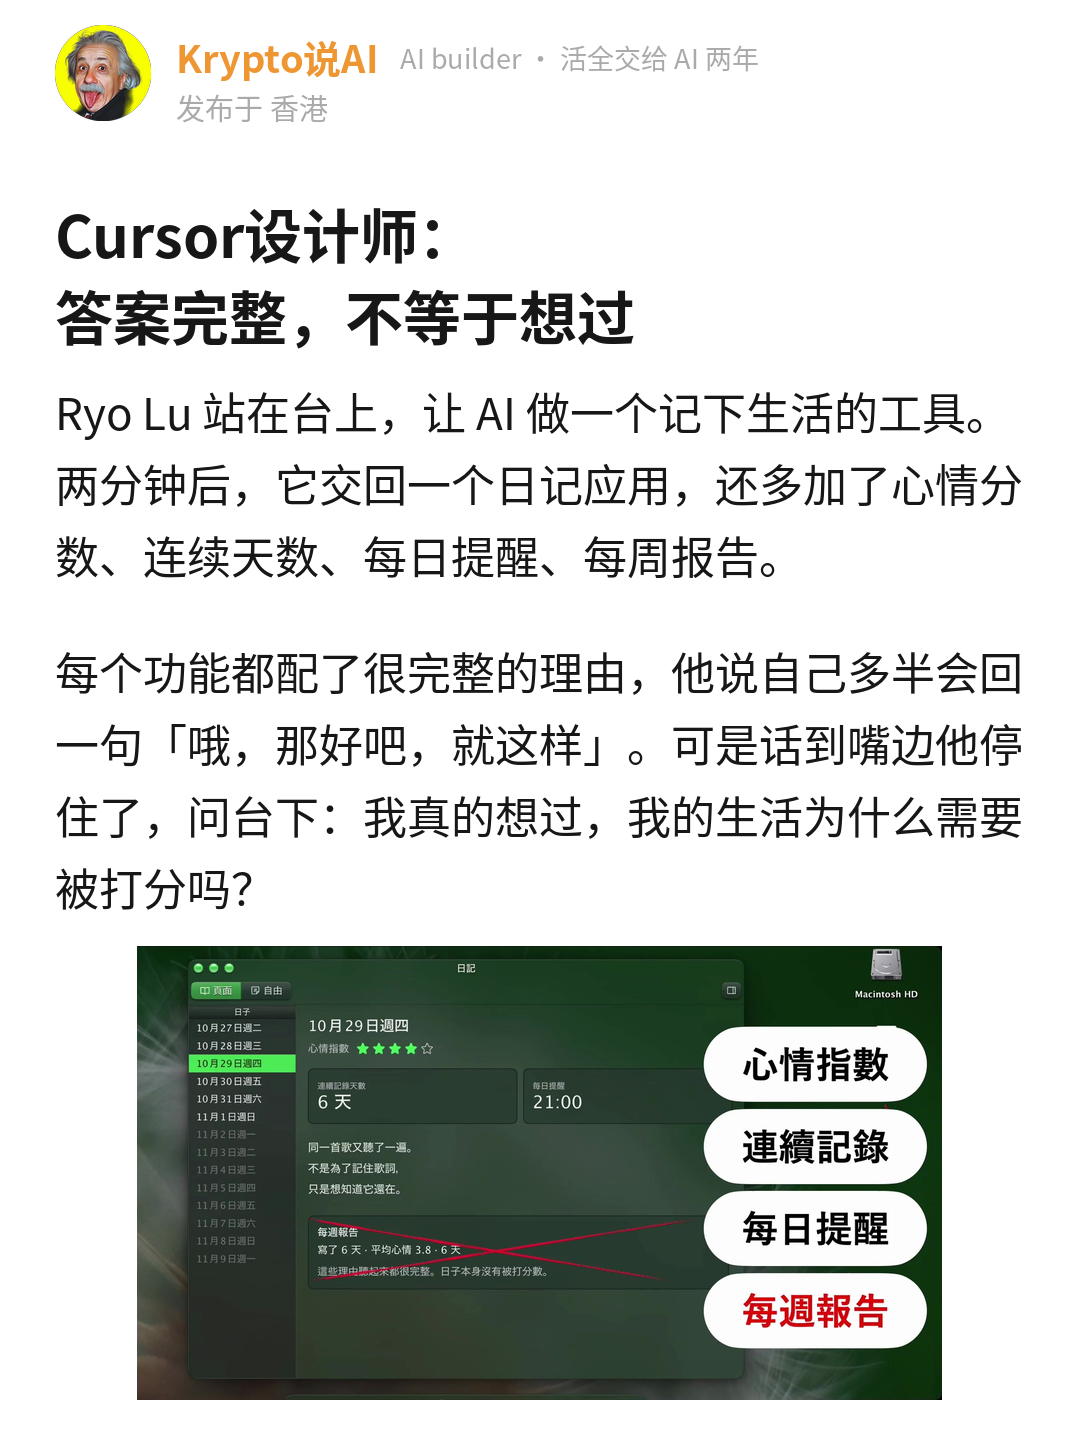
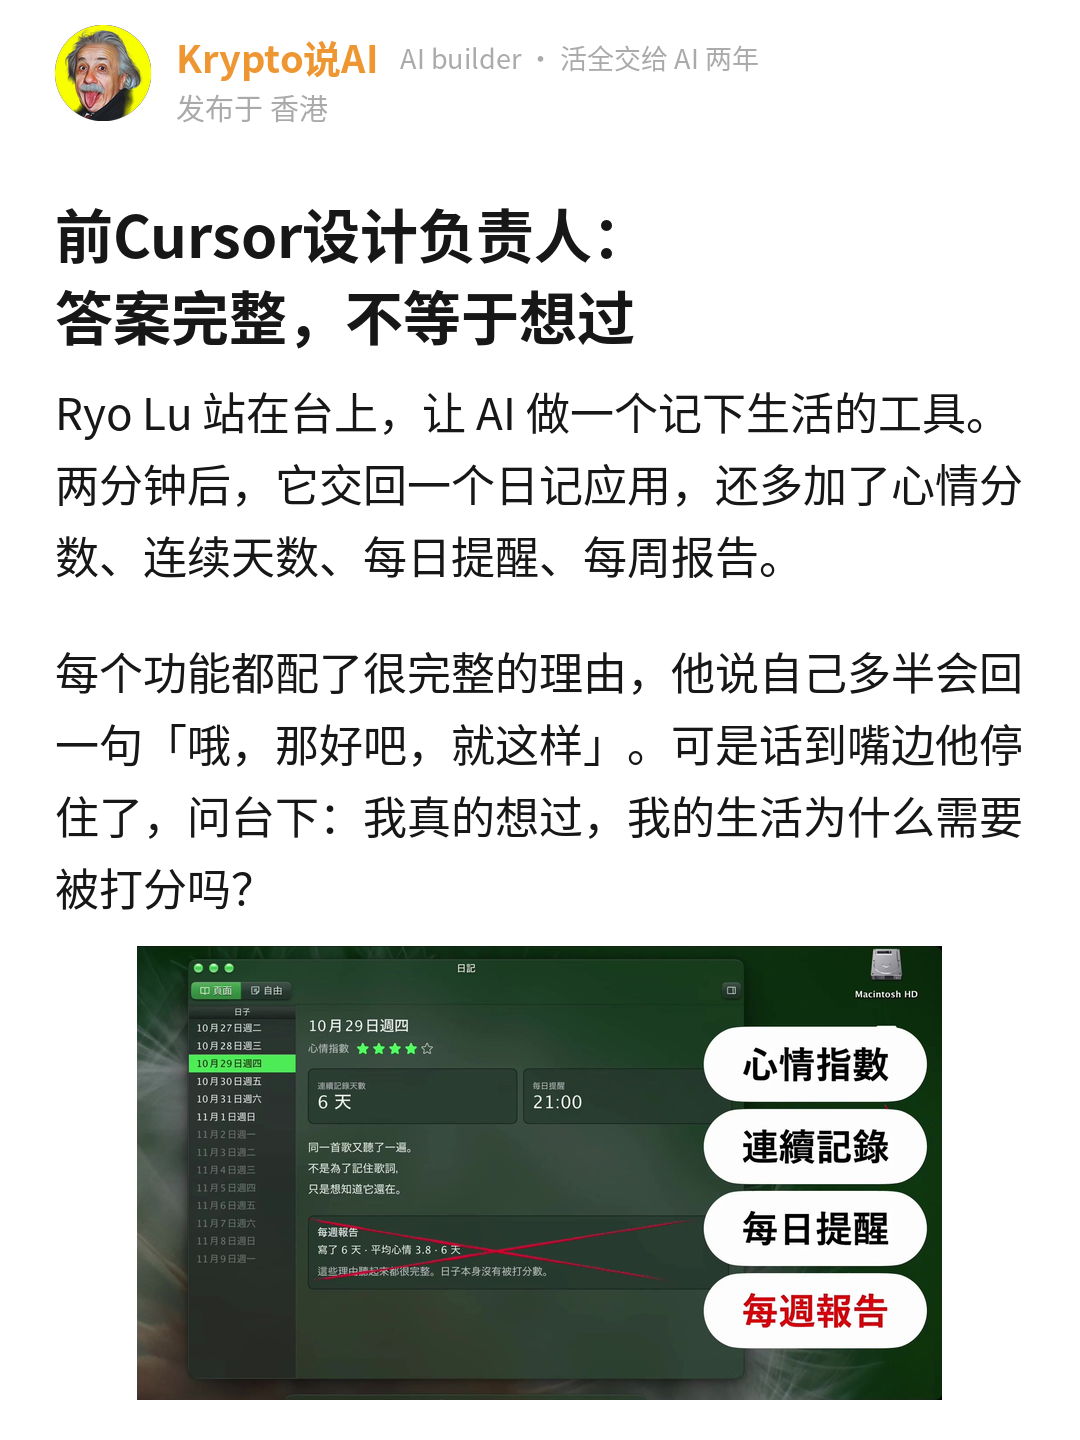
Ryo Lu 稿：标题改为前Cursor设计负责人
Claude-Session: https://claude.ai/code/session_01NaeRTdovKQRjTKC8dSdh9D

Changed region(s): [[0.0611, 0.125, 0.5806, 0.1875]]

diff --git a/CLAUDE.md b/CLAUDE.md
@@ -4,7 +4,7 @@
 
 ## 摘要
 - **11-09 Tulsee Doshi × Lenny 播客稿（meme-v2，retell，value 信息 + 框架，立场 A 默认，`发布/2026-11-09_tulsee-doshi-gemini-pm/meme-v2版/`，12 页 + 名片卡，待用户看）**：素材是用户发来的 Lenny's Podcast 转录（谷歌 Gemini / 前沿模型产品负责人 Tulsee Doshi，《Why PMs are suddenly valuable again》）+ 20 张截帧。先问只答了两条：① 「会看校招生的ai模型的敏感度，saytype我也做了」② 价值选信息和框架；②⑤⑥ 没答，立场默认 A、cost 无。门票用身份「谷歌Gemini负责人」，题材是 PM / 找工作怎么办。起法是自己工作里正在发生的事（面校招生看模型敏感度），对上她招 PM 先看「每天玩不玩模型」；四个分条：招人看什么（+ 我的面试题换过一轮，经历库 #26）/ 第一个评测从 5 条提示词开始（Lenny 自己承认新模型来了不知道试什么）/ 60-20-20 + Boris Cherny 隔一阵删 skills / 先问 AI 能不能替我做 + 她最爱 Wispr Flow（手腕伤）对上我的 SayType（#23 #24，回指 10-17 稿）；收在「数据归模型、洞察归人」「X 是新的 PRD」→ 判断段 → 结尾问面试 PM 问全流程还是问新模型。图：`shots/05_5358` 同框 hero，自绘 `hire.png` `eval.png` `rule.png` `split.png`，`question.png`（沿用 11-04 面试题卡加「对新模型敏不敏感」），SayType 截图，四张单人 / 同框截帧，每页有图。check 0 ✗ 2 ⚠（数字 12 / 千字和开头 5 锚点是框架稿常态，留）。标题「谷歌Gemini负责人：产品经理又值钱了」（20 字，产品经理比 PM 好搜；用户 11-09 定图文里 PM 全换成产品经理：首页 headline 两行「谷歌Gemini负责人：｜产品经理又值钱了」，正文、hire.png、split.png、正文.txt 同步），备选「谷歌招产品经理，先看你每天玩不玩模型」「强烈推荐谷歌Gemini负责人这期播客。」
-- **11-09 Ryo Lu 中文演讲稿（meme-v2，retell，value 框架，立场 A，`发布/2026-11-09_ryo-lu-talk/meme-v2版/`，12 页 + 名片卡，待用户看）**：素材是用户发来的转录 + 20 张截帧（Cursor 设计负责人 Ryo Lu《当我们什么都能做，还知道自己想做什么吗》，约 22 分钟，截帧只到 700 秒；会场日期未知）。先问走了，用户答：Claude 给的方案很完善、没认真想过合理性就落地会反噬自己；低复杂度直接交 AI 闭环落地，复杂的先走 Plan Mode 拆解、确认逻辑再执行（经历库 #41，观点库 #34）；他还是 Cursor 设计负责人。价值 / 立场 / 代价细节没答，默认框架 + A，cost 按原话不编具体哪次。起法是主角在台上的时刻（让 AI 做记录生活工具、两分钟交回四个功能、他差点说那好吧），跟上一篇（判断起法）不同。四点：完整答案盖住没形成的问题 → 先挑一样想去掉的 → 服务窗口和工作台（「我」的 Plan Mode 分流，`mine.png`）→ 工具在那里不代表一直要用（email、搬台北、小时候改电脑像 Mac）→ 判断 → 他的建议 → 问读者。每页一张图：截帧裁的 hero / 讲台 / 画布 / 服务窗口 vs 工作台 / Mac / 结尾两张，自绘 `quote.png` `pick.png` `table.png` `mine.png` `email.png`。check 0 ✗ 2 ⚠（开头锚点 5、「对」是对错的对）。标题「Cursor设计师：答案完整，不等于想过」（20 字），备选「强烈推荐Cursor设计负责人这场演讲。」「Cursor设计负责人：我是不是又落后了」。**11-09 用户嫌截图模糊、问有没有更清晰素材**：查到出处是 AI Engineer 上海大会 11-05 主会场（官方 YouTube y9Sg--RDtks，标题写「Ryo Lu, ex-Cursor」；大会嘉宾页写「Founding Designer, ex-Cursor」，跟用户说的「还是 Cursor 设计负责人」对不上，正文改成「做过 Cursor 的设计负责人」、正文.txt 写「前 Cursor 设计负责人」，待用户定）。云端 yt-dlp 被 YouTube 拦（要登录 cookies），拿到的是官方缩略图 1280×720（`编辑用/yt_thumb.jpg`，裁脸成横幅 `face.jpg`）和大会嘉宾页头像 600×600（`headshot_w.jpg`），换掉两张模糊的讲台小窗截图；幻灯片画面要更清晰得用户在 Mac 上从原片截。**用户再定：大头照没有信息量，不要放进图文**（以后同类稿人像只当首页 hero 可选，正文里放有信息的素材或可视化）→ 第 2 页换演讲标题页 `title.jpg`（截帧 15 秒），结尾大头照和 `plan.jpg` 去掉，换自绘 `advice.png`（他留的三步：问哪个决定没想过 → 改一小处 → 拿给另一个人看），建议段压成一句，问读者收尾，11 页正文 + 名片卡每页有图。**11-09 核实在职状态**：他本人博客 ryo.lu/journal 2026-08-10「i left Cursor」，去亚洲重新开始，之后到 11-06 的日志没提新东家；正文改「今年 8 月离开 Cursor，从旧金山搬到台北」，备选标题改「前Cursor设计师」，主标题「Cursor设计师：…」待用户定要不要加「前」（加了 21 字）
+- **11-09 Ryo Lu 中文演讲稿（meme-v2，retell，value 框架，立场 A，`发布/2026-11-09_ryo-lu-talk/meme-v2版/`，12 页 + 名片卡，待用户看）**：素材是用户发来的转录 + 20 张截帧（Cursor 设计负责人 Ryo Lu《当我们什么都能做，还知道自己想做什么吗》，约 22 分钟，截帧只到 700 秒；会场日期未知）。先问走了，用户答：Claude 给的方案很完善、没认真想过合理性就落地会反噬自己；低复杂度直接交 AI 闭环落地，复杂的先走 Plan Mode 拆解、确认逻辑再执行（经历库 #41，观点库 #34）；他还是 Cursor 设计负责人。价值 / 立场 / 代价细节没答，默认框架 + A，cost 按原话不编具体哪次。起法是主角在台上的时刻（让 AI 做记录生活工具、两分钟交回四个功能、他差点说那好吧），跟上一篇（判断起法）不同。四点：完整答案盖住没形成的问题 → 先挑一样想去掉的 → 服务窗口和工作台（「我」的 Plan Mode 分流，`mine.png`）→ 工具在那里不代表一直要用（email、搬台北、小时候改电脑像 Mac）→ 判断 → 他的建议 → 问读者。每页一张图：截帧裁的 hero / 讲台 / 画布 / 服务窗口 vs 工作台 / Mac / 结尾两张，自绘 `quote.png` `pick.png` `table.png` `mine.png` `email.png`。check 0 ✗ 2 ⚠（开头锚点 5、「对」是对错的对）。标题「Cursor设计师：答案完整，不等于想过」（20 字），备选「强烈推荐Cursor设计负责人这场演讲。」「Cursor设计负责人：我是不是又落后了」。**11-09 用户嫌截图模糊、问有没有更清晰素材**：查到出处是 AI Engineer 上海大会 11-05 主会场（官方 YouTube y9Sg--RDtks，标题写「Ryo Lu, ex-Cursor」；大会嘉宾页写「Founding Designer, ex-Cursor」，跟用户说的「还是 Cursor 设计负责人」对不上，正文改成「做过 Cursor 的设计负责人」、正文.txt 写「前 Cursor 设计负责人」，待用户定）。云端 yt-dlp 被 YouTube 拦（要登录 cookies），拿到的是官方缩略图 1280×720（`编辑用/yt_thumb.jpg`，裁脸成横幅 `face.jpg`）和大会嘉宾页头像 600×600（`headshot_w.jpg`），换掉两张模糊的讲台小窗截图；幻灯片画面要更清晰得用户在 Mac 上从原片截。**用户再定：大头照没有信息量，不要放进图文**（以后同类稿人像只当首页 hero 可选，正文里放有信息的素材或可视化）→ 第 2 页换演讲标题页 `title.jpg`（截帧 15 秒），结尾大头照和 `plan.jpg` 去掉，换自绘 `advice.png`（他留的三步：问哪个决定没想过 → 改一小处 → 拿给另一个人看），建议段压成一句，问读者收尾，11 页正文 + 名片卡每页有图。**11-09 核实在职状态**：他本人博客 ryo.lu/journal 2026-08-10「i left Cursor」，去亚洲重新开始，之后到 11-06 的日志没提新东家；正文改「今年 8 月离开 Cursor，从旧金山搬到台北」，备选标题改「前Cursor设计师」，用户 11-10 定主标题 / headline「前Cursor设计负责人：答案完整，不等于想过」（23 字，超 20 字上限 3 字，发布时注意）
 - **11-08 对标 YouTube「How to Actually Get Your Shit Together Before 2027」（`对标/YouTube_GetYourShitTogether/`，用户发两段 mov，约 4 分钟，拆解 + 英文转录 + 截帧）**：自我提升 edit 类：第一人称旁白（一句答案开头「找出让一切更难的那一件事」、「生活在给你信息」一个比喻用到底、描述 vs 解释的翻转、睡眠→精力→工作→压力闭环、纸笔两个问题当行动）+ 全程电影 / 动画 / 颁奖礼片段混剪（约 2.4 秒一切）+ 逐词弹出的白色粗体动态字幕、黄色斜体关键句 + 红 / 黑 / 米白纯色卡 + 黑底手绘「五个框连到 Core Problem」。用户问能不能找到一模一样的素材做中文版：**没做**，素材全是版权影视片段、旁白是别人原创稿（逐句翻译 = 搬运，碰「只学结构」边界）、题材跟 AI 无关过不了门票；拆解第五节给了三种落法（A 同机制换 AI 题 + 复刻音色 + 代码画字幕 / 手绘图，推荐；B 纯动态排版；C 解说原片，不推荐），待用户选并答三个问题
 - **11-08 Addy Osmani《Your Coding Agents Made You a Manager》稿（meme-v2 第 15 篇，观察，value 信息 + 框架，立场 D，`发布/2026-11-08_addy-osmani-managing-agents/meme-v2版/`，8 页 + 名片卡，待用户看）**：素材是用户发来的 X 长文打包（Addy Osmani，Claude Code 团队，11-08，14.8 万浏览 3447 收藏；全文 + 封面 + 头像存 `编辑用/source.md`、`shots/`）。先问走了：用户要我先解释九条，答「每多一个 agent 多分走一份注意力，这几条我都非常认可」、价值信息 + 框架、第 ④ 问断在「agent 像」，其余「你定」。按 11-08 八条模板写：门票用身份「Claude 团队」（Addy 路人不认识）；起法是主角狼狈时刻（差点合并 600 行、测试全绿、全是用户用不上的复杂度），跟上一篇（自己工作里的事）不同；五个分条的点（自己能跑的验收 / 只说它看不到的 / 纠正第二次写下来 + 只锁死不能变的 / 交任务不交判断 / 编排税）；「我」三次：四五个窗口心里一紧 → 规则文件越写越长是替模型做了它能做的判断（#40）→ 并行丢念头（#39）+ 五个里只有两个有验收；stance 进观点库 #33（归 D）；cost = 并行丢念头。图 4 张：封面图当 hero（headline + 两段 + 图在第 1 页）、`rules.png`（请求 vs 强制）、`tax.png`（编排税示意柱图）、Addy 头像在结尾前。check 0 ✗ 6 ⚠（备选标题没带 Claude Code、开头锚点 8、电报分句 4.1、「看」收尾，都留）。标题「Claude团队：用AI的人，早就是经理」（19 字，keyword Claude），备选「Claude团队：测试全绿，照样不能合」「强烈推荐Claude团队这篇长文。」「看来很多人没看懂Claude团队这篇。」。正文.txt 领取物是睡前开长任务的五个问题。八条模板逐条：门票 ✓ 身份、题材 ✓ 带 agent 的人怎么办、标题 ✓ 身份 + 反差、前两行 ✓ 主角时刻、分条 ✓ 5 点、口吻 ✓ 😅 + 心里一紧、首页 ✓ headline + 两段 + 图 / 图 4 张自绘 2、结尾 ✓ 问读者带自己的答案。用户第 ④ 问（agent 像什么）没答完。**用户看初稿退两条（11-08）**：开头写得不好（人名 + 600 行起笔，路人不认识 Addy）；后面一页全是字，**每一页至少带一个原文素材或可视化**（第五次同样要求，`账号/爆文方法论.md` 第五节第 7 条和两个 SKILL 改回硬规则，上午的「每页有图撤」收回）。改：开头换成判断起法「用 Claude Code 干活的人，每天都在做一件经理的事……只是没人叫你经理」+ 第二段 Addy 身份和文章；600 行那一幕挪到第 4 点当例子；新加 `check.png`（没验收 vs 有验收流程）、`context.png`（别写 / 要写）、`judge.png`（交给 agent / 留给人）、`quote.png`（五个 agent 一次合并冲突原话卡）、`mine.png`（我的五个 agent 只有两个有验收）、第 2 页先放头像横裁、用户说「很突兀」→ 换成 `manage.png`（经理六件事 vs 带 agent 的你 对照表）；删类比不成立那段；12 页（11 页正文 + 名片卡）每页有图。改前存 `draft_v1_人名开头_纯文字页.md`。**用户定标题 / headline「Claude官方：人人都是经理」**（12 字），备选不变
 - **11-08 youtube-xhs 按 Better Living 五条改完（用户定「按这五条改」）**：`render_frame.py` 标题改黑体、第二行自动强调色；`compose_frame.py` 字幕压进原片底边（居中，先画一块整幅半透明矩形再叠字，中文 52 号最多两行、英文 28 号）、新增章节层（`_work/chapters.json` 或 `--chapters`，CH1 白 / CH2 强调色两行 58 号，按 start 切换，自动减掉跳过的片头；没有就提醒）、`--bg` 默认改 solid；`render_panel.shoot` 云端无头 Chromium 截不出图时退到 Playwright（Python 没装就走 Node 版）；`templates/video_frame.md` 重写版面图、字幕、章节、钩子首选「对读者说的一句话」、三条反模式；`video_post.md` 同步；SKILL 0.5 加四条门票（账号四条视频没有一条同时过名字和题材）、步骤 2 加 chapters.json 和 `章节.txt`、预览出两帧、步骤 5 和交付自查加章节。用 ffmpeg 合成的 30 秒测试片走通 preview 和整片压制（1080×1920、30fps）。还没用真素材出过一条，下一条视频按新版式出
